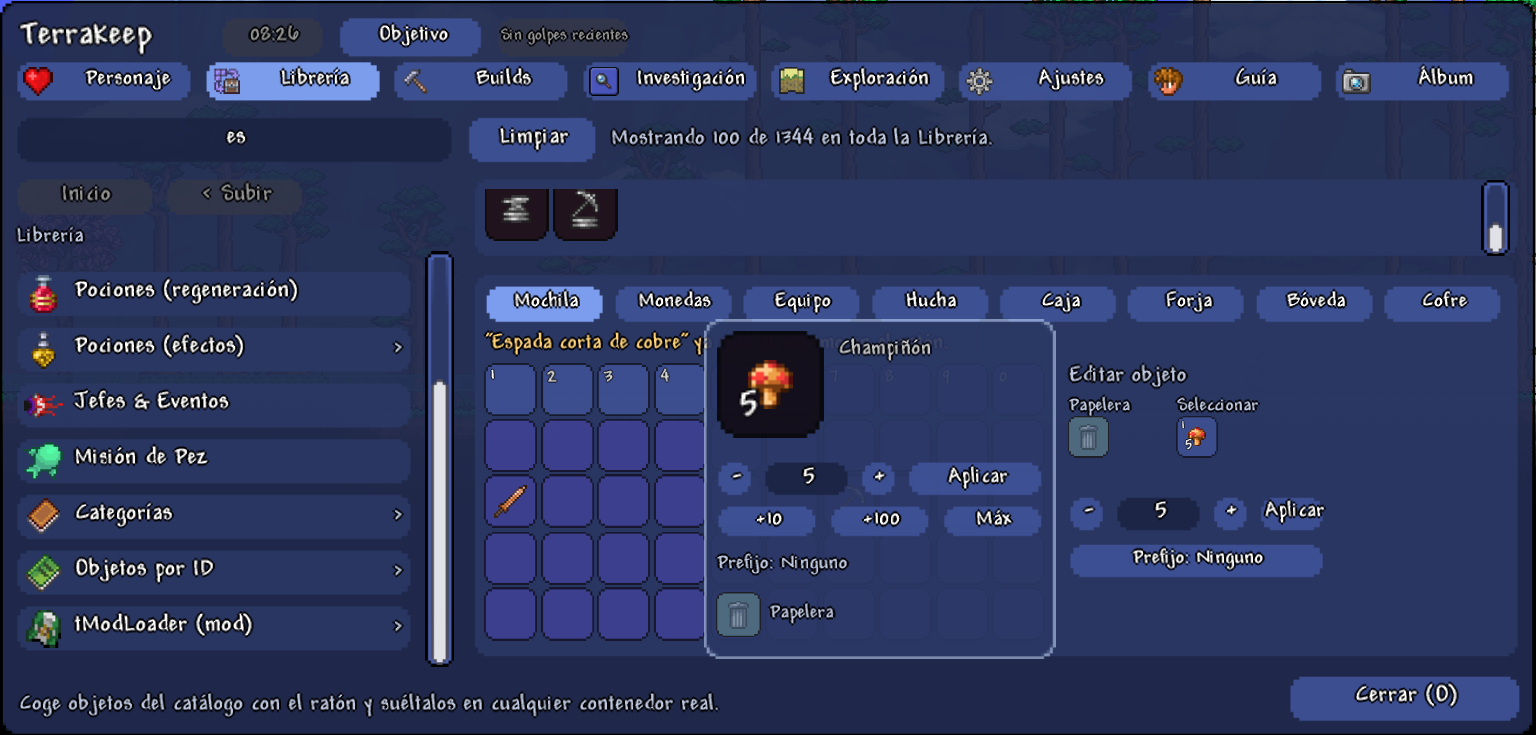
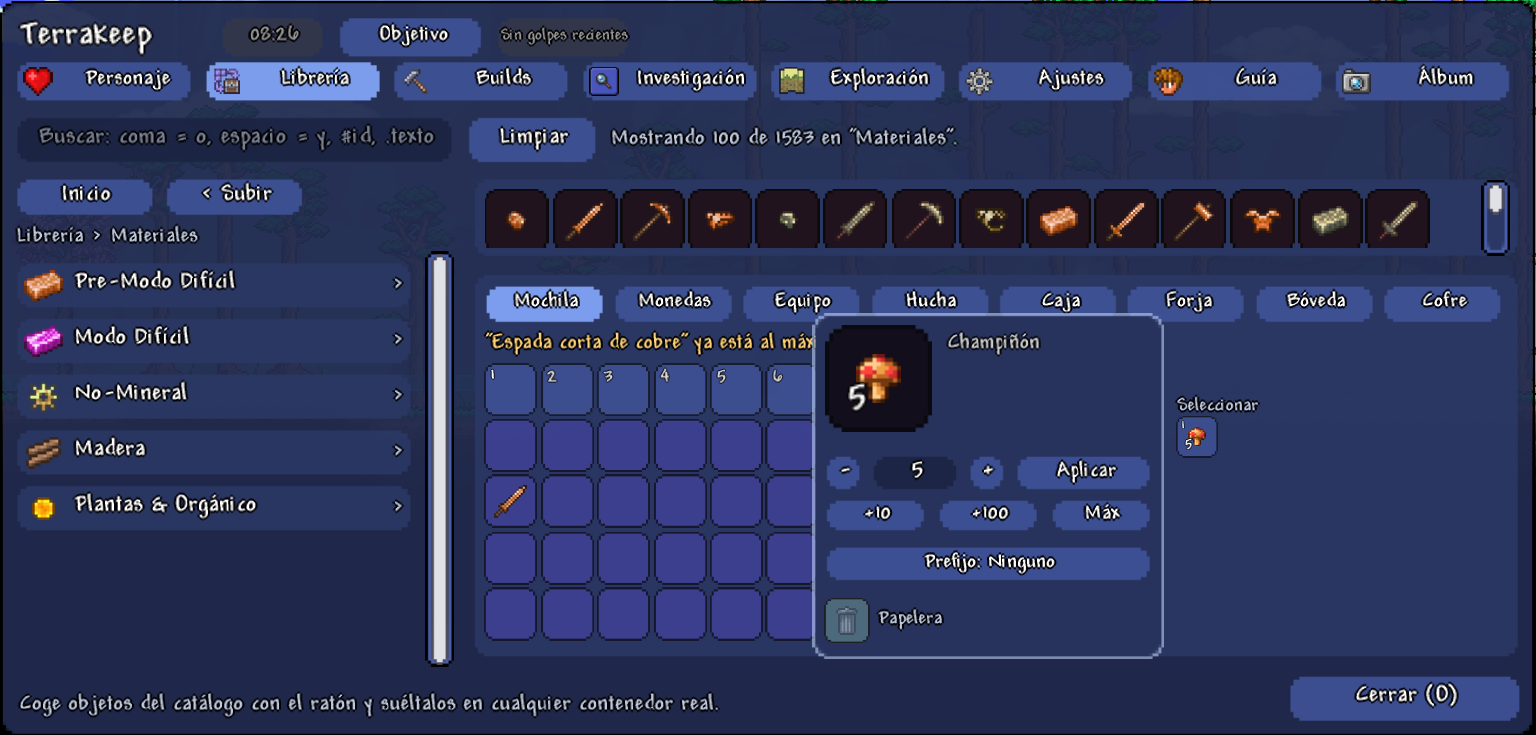
v0.7.1: un solo editor de objeto; captura 06 rehecha
Versión 0.7.0 -> 0.7.1 (parche). README con Novedades 0.7.1 y la captura 06-editar-objeto
rehecha en el juego real: buscador vacío, carpeta Materiales y un único editor.

Claude-Session: https://claude.ai/code/session_01K7SsmyJLJN7mL9bZmtPKMP

diff --git a/README.md b/README.md
@@ -27,7 +27,7 @@ Terrakeep junto al bestiario y los emotes, con el inventario abierto.
 </p>
 <p align="center">
   <img src="docs/screenshots/05-este-mundo.png" width="49%" alt="Exploración > Este mundo: ficha del mundo con la fila nueva de Invasiones (Goblins, Escarcha, Piratas) y, a la derecha, la dificultad en vivo con su aviso de permanencia" />
-  <img src="docs/screenshots/06-editar-objeto.png" width="49%" alt="Librería con la tarjeta Editar objeto abierta sobre un Champiñón: cantidad con los botones rápidos +10, +100 y Máx, prefijo y papelera" />
+  <img src="docs/screenshots/06-editar-objeto.png" width="49%" alt="Librería en la carpeta Materiales con la tarjeta Editar objeto abierta sobre un Champiñón: el único editor, con cantidad, botones rápidos +10, +100 y Máx, prefijo y papelera, junto al recuadro Seleccionar" />
 </p>
 
 ## Qué hace
@@ -108,6 +108,17 @@ Toda la interfaz está construida con los bloques nativos de Terraria (`IngameFa
 tecnología externa al juego.
 
 ## Novedades
+
+### 0.7.1 (29-sep-2026)
+
+- **Un solo editor de objeto**: con un objeto en el recuadro de selección se veían a la vez la
+  tarjeta flotante "Editar objeto" y el mini-panel fijo, los dos con cantidad, "Aplicar", prefijo
+  y papelera. Ahora la tarjeta es el único editor (con el prefijo ya interactivo dentro) y el
+  mini-panel se queda solo con el recuadro "Seleccionar", que es donde se arrastra el objeto de
+  vuelta fuera para cerrarla.
+- **La tarjeta ya no transparenta lo de debajo** (se veían los números de las ranuras detrás del
+  nombre del objeto) y **tapa menos la mochila**: ocupa el hueco que deja libre el mini-panel.
+- Versión del mod: `0.7.0` → `0.7.1`.
 
 ### 0.7.0 (29-sep-2026)
 
